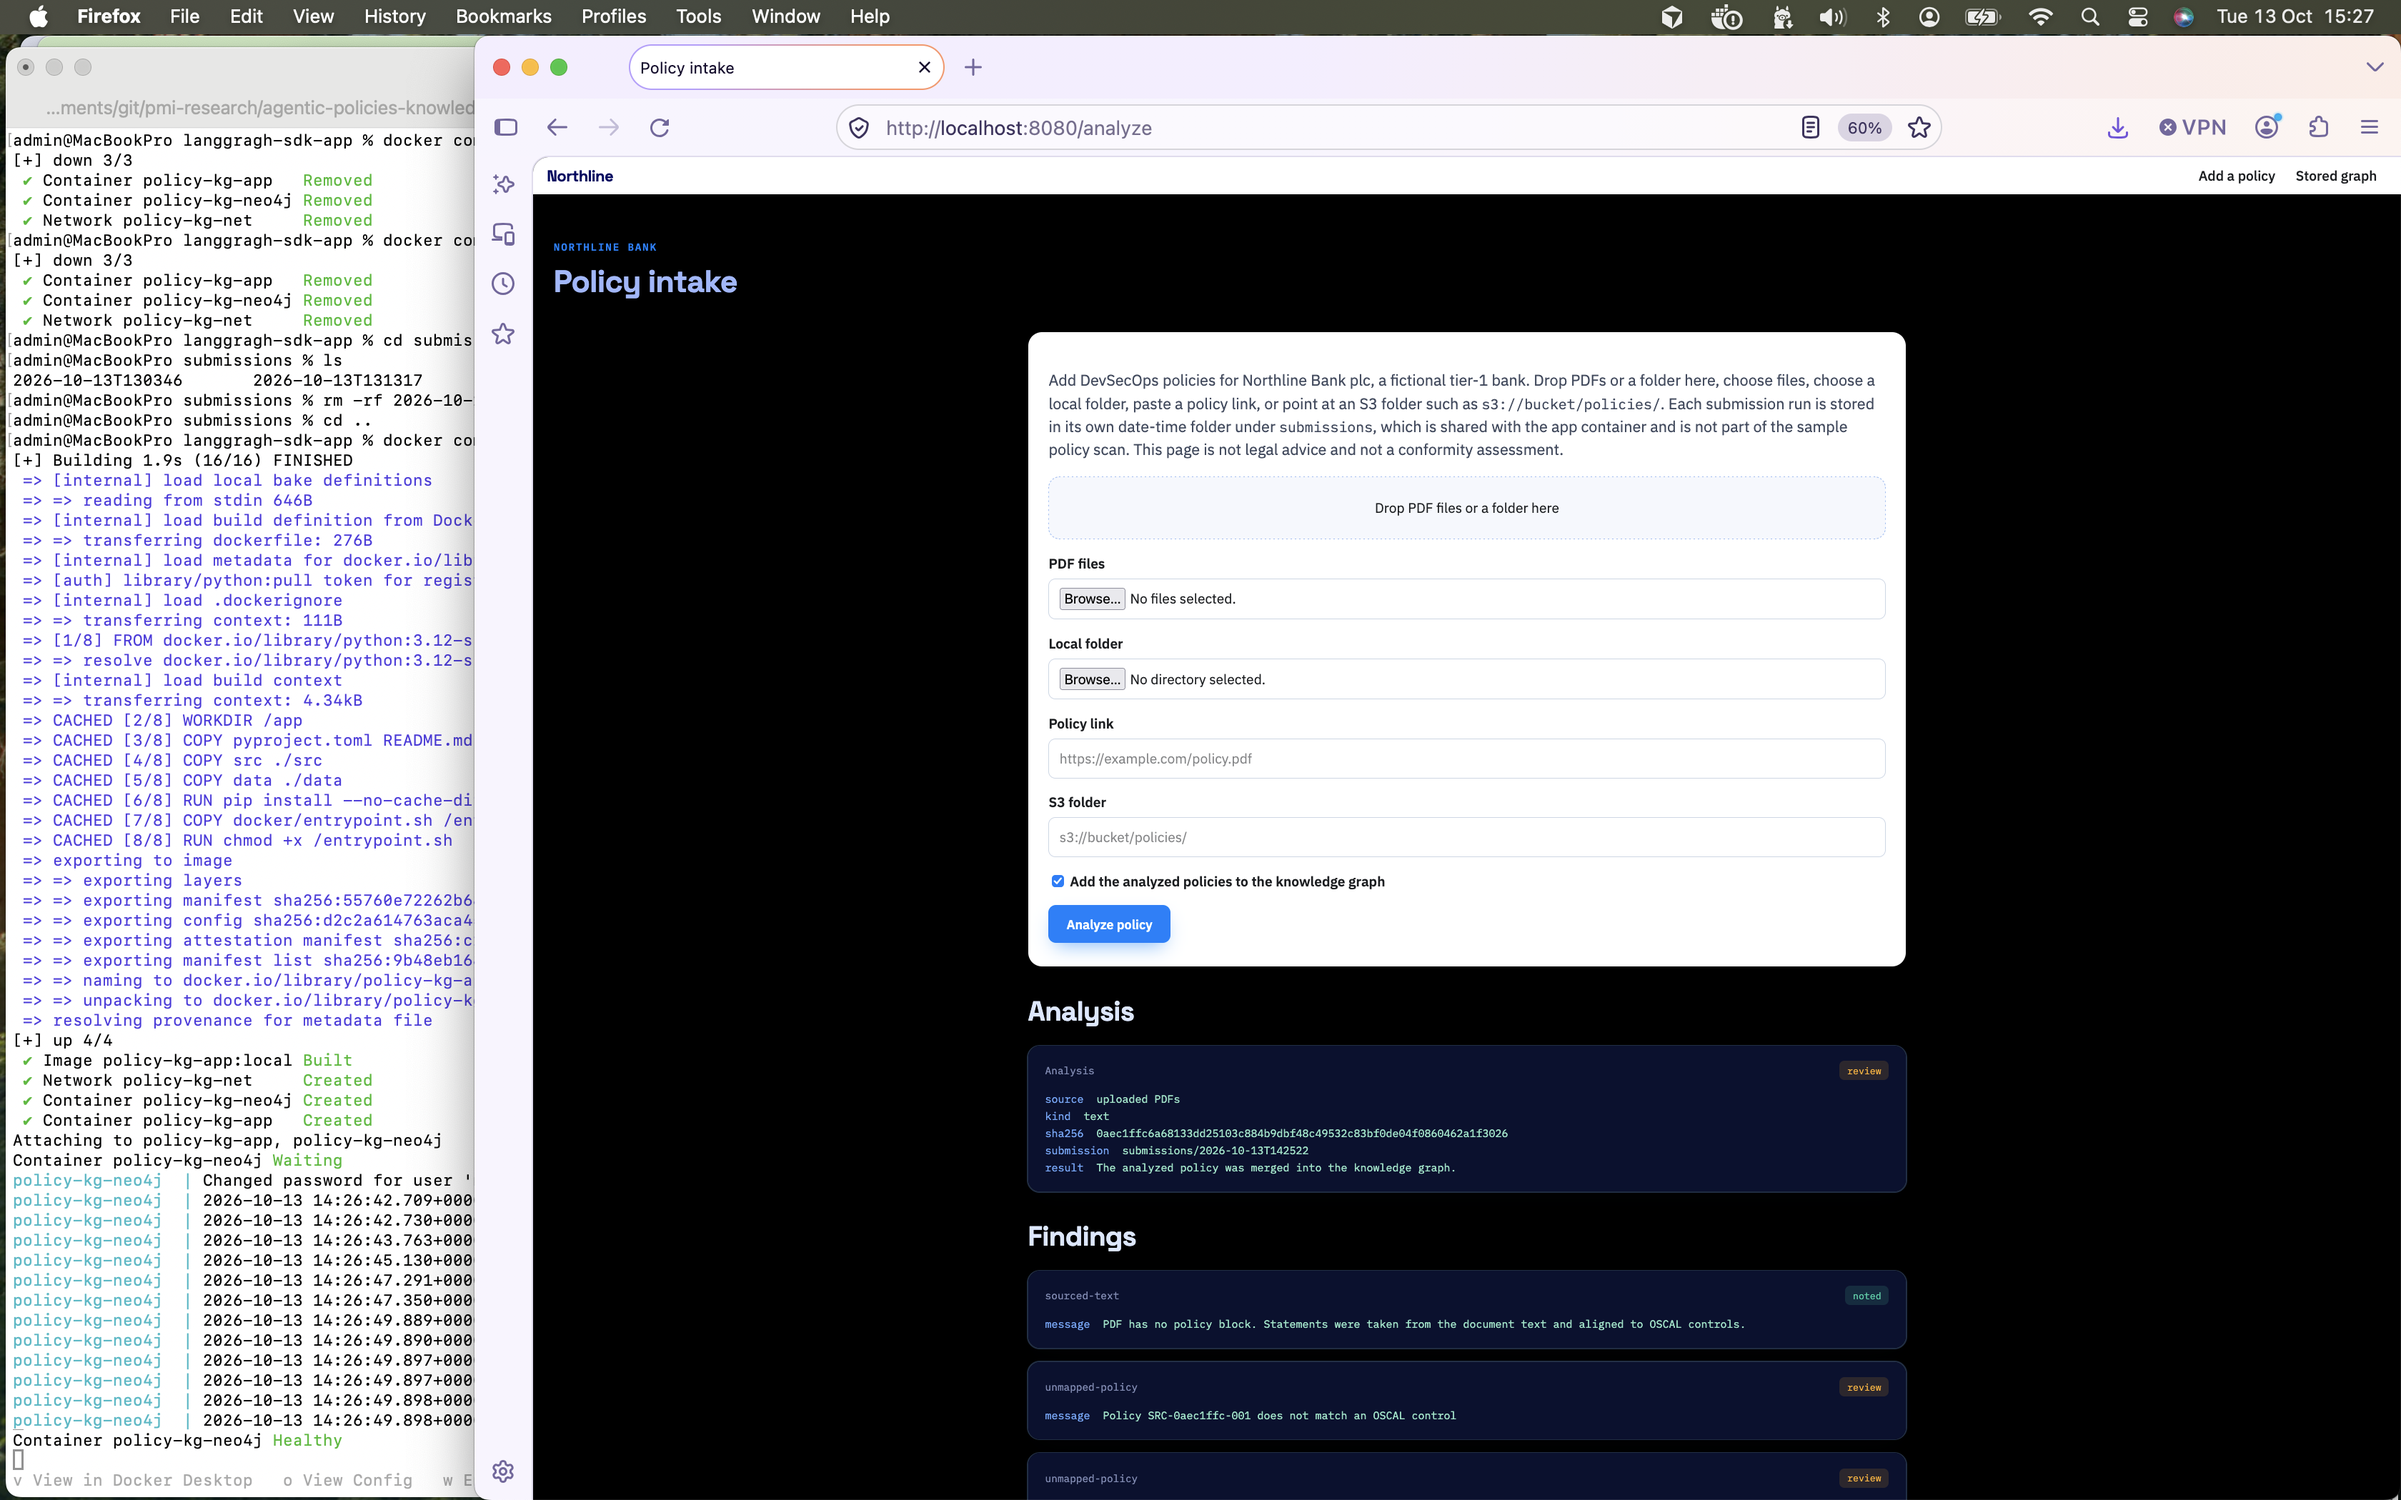
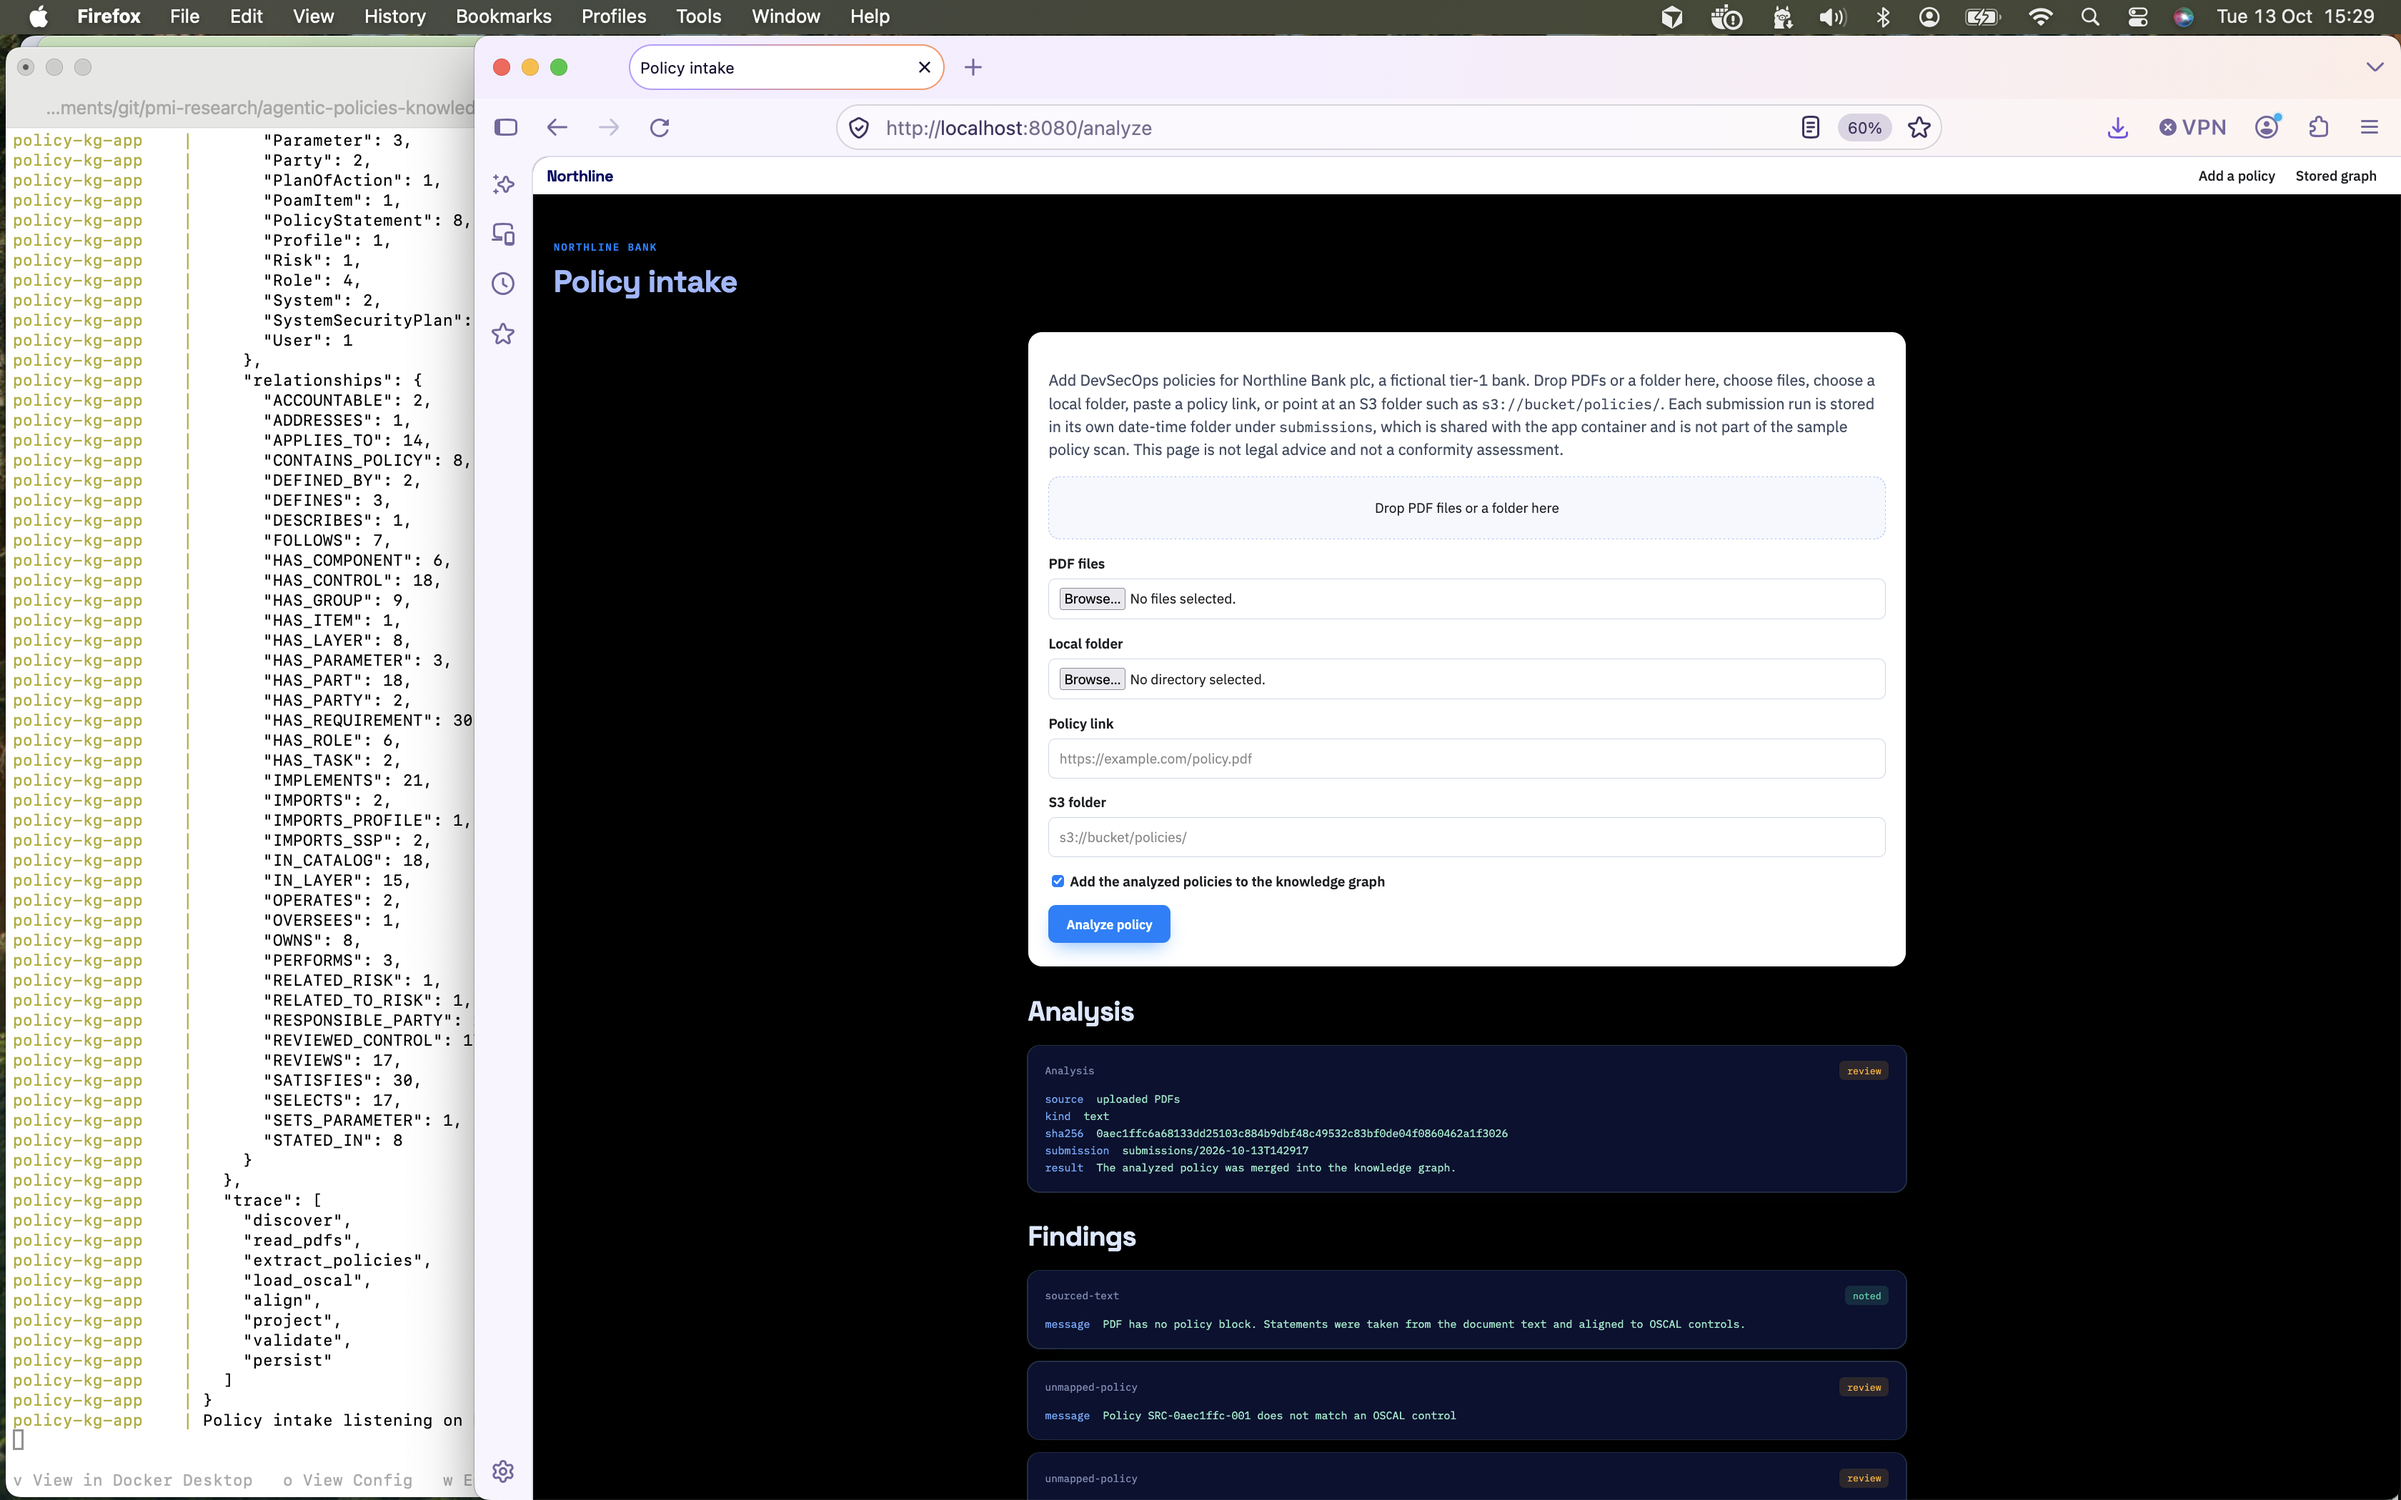
Update the sample analysis pipeline screenshot.
The refreshed image shows the finished pipeline counts beside the intake page after a sourced PDF is merged.

Changed region(s): [[0.0, 0.0929, 0.2188, 0.9595]]

diff --git a/langgragh-sdk-app/README.md b/langgragh-sdk-app/README.md
@@ -29,7 +29,7 @@ Open http://localhost:8080 to add policies. Drop PDFs or a folder on the page, c
 
 ### Sample analysis pipeline run
 
-The terminal rebuilds `policy-kg-neo4j` and `policy-kg-app` until Neo4j is healthy. The browser is the intake page at http://localhost:8080/analyze after a sourced PDF: the analysis record says the policy was merged, and the findings name the sourced text and any statement that did not match a control.
+The terminal is the finished pipeline: node and relationship counts, the stage trace through `persist`, then `Policy intake listening`. The browser is http://localhost:8080/analyze after a sourced PDF. The analysis record says the policy was merged, and the findings name the sourced text and any statement that did not match a control.
 
 ![Sample analysis pipeline run](images/sample-analysis-pipeline-run.png)
 
